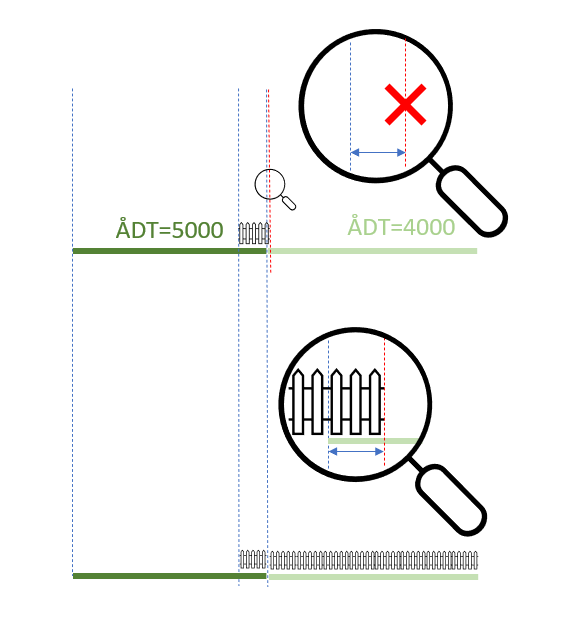
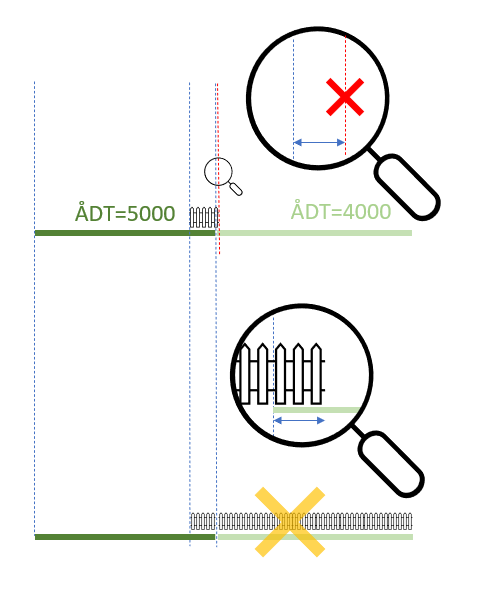
Håndtering av degenererte data

Changed region(s): [[0.0613, 0.0302, 0.9202, 0.9347], [0.0613, 0.8744, 0.1534, 0.9045]]

diff --git a/segmentering.py b/segmentering.py
@@ -225,9 +225,20 @@ def segmenter( dfVeg, dfListe, agg={}, minsteLengde=0.1, glemNvdbDetaljer=True  
 
         for ix in range( len( myPos)-1): 
             nyttSeg = {  } 
+
             # Behandler fagdata som matcher disse veglenkeposisjonene
+            # Inklusive støyfilter: Utstrekning til fagdata, målt i veglenkeposisjoner, må være > mikroPos 
+            mikroPos = minsteLengde * 1.1 / LFAC
             for myDf in dfListe: 
-                myDf2 = myDf[ (myDf[vl] == vegbit[vl]) & (myDf[fra] < myPos[ix+1]) & (myDf[til] > myPos[ix])]
+                # myDf2 = myDf[ (myDf[vl] == vegbit[vl]) & (myDf[fra] < myPos[ix+1]) & (myDf[til] > myPos[ix]) & ## Overlapp - OPPRINNELIG FORMULERING, sletta
+
+                # Ny formulering, overlapp + lengdefilter
+                myDf2 = myDf[ (myDf[vl] == vegbit[vl])                                           &   # Samme veglenkesekvens ID                                       OG
+                              (myDf[til]-myDf[fra] > mikroPos)                                   &   # Støyfilter: Fagdata må ha utstrekning > minstelengde           OG 
+                              ( ((myDf[fra] < myPos[ix+1]) & (myDf[til]-myPos[ix]   > mikroPos)) |   # Overlapp > minstelengde regnet fra helt i start av segment (ELLER
+                                ((myDf[til] > myPos[1])    & (myPos[ix+1]-myDf[fra] > mikroPos))     #                         regnet fra helt mot slutt av segment        )
+                                ) ]
+
                 if len( myDf2 ) > 0: 
                     for myCol in myDf2.columns: 
                         if myCol not in ignorerCol:

diff --git a/testdata_segmentering.py b/testdata_segmentering.py
@@ -51,7 +51,14 @@ fart = gpd.GeoDataFrame( [{ 'Fartsgrense' : 80, 'vref' : lagvref(0, GLF[f1]),  v
 
 # Objekt som er littegrann forskjøvet (nedenfor toleranse på 10cm ) ift fartsgrensene 
 dx = 0.01
-bru = gpd.GeoDataFrame( [ { 'Bru' : 1, 'vref' : lagvref( GLF[f1], GLF[100]), fra:GLF[f1]-myGeomLFAC*dx, til:GLF[100]+myGeomLFAC*dx, 'geometry' : LineString( [(myGeomCoords[f1][0]-dx, myGeomY, myGeomZ ), (myGeomCoords[100][0]+dx, myGeomY, myGeomZ )]), vid : 1000  }  ]  )
+bru = gpd.GeoDataFrame( [ { 'Bru' : 1, 'vref' : lagvref( GLF[f1], GLF[100]), fra:GLF[f1]-myGeomLFAC*dx, til:GLF[100]+myGeomLFAC*dx, 
+                        'geometry' : LineString( [(myGeomCoords[f1][0]-dx, myGeomY, myGeomZ ), (myGeomCoords[100][0]+dx, myGeomY, myGeomZ )]), vid : 1000  }  ]  )
+
+
+# Latterlig kort objekt < toleranse på 10cm, midt inne på fartsgrense-strekning
+stikk = gpd.GeoDataFrame( [ { 'Stikk' : 'Ja', 'vref' : lagvref( GLF[175], GLF[175]), fra:GLF[175]-myGeomLFAC*dx, til:GLF[175]+myGeomLFAC*dx, 
+        'geometry' : LineString( [(myGeomCoords[175][0]-dx, myGeomY, myGeomZ ), (myGeomCoords[175][0]+dx, myGeomY, myGeomZ )]), vid : 1000  }  ]  )
+
 
 # rekkverk, to biter som delvis overlapper hverandre
 r1a = 20

diff --git a/segmentering.md b/segmentering.md
@@ -40,11 +40,11 @@ Andre argument er en liste med de datasettet som skal segmenteres med hensyn på
 
 # Metodikk 
 
-Vi har dårlig erfaring med å klippe geometri basert på flyttalsoperasjoner basert på forholdet mellom veglenkeposisjoner og geometrisk lengde: Det blir for upresist. I stedet utnytter vi at selve klippeprosessen jo baserer seg på presist definerte start- og sluttpunkt for de datasettene som inngår: 
+Vi har dårlig erfaring med å klippe geometri basert på flyttalsoperasjoner basert på forholdet mellom veglenkeposisjoner og geometrisk lengde: Det blir for upresist. I stedet utnytter vi at inngangsdatene har  en geometri som starter presist på angitt `startposisjon` og slutter presist på angitt `sluttposisjon`: 
 
 ![Bildet viser klippeprosess for data med ulik utstrekning langs vegnettet](./pic/segmentering2.png)
 
-Hvert "kuttpunkt" i dette steget av segmenteringsprosessen har en presist definert geometri lik eksakt første (eller siste) punkt på den linja som starter (evt slutter) i dette punktet på vegnettet. Via operasjonen på shapely-objektet `geometry.coords[0]` eller `geometry.coords[-1]` får vi tilgang til dette koordinatpunktet. Alt vi trenger å gjøre er å lagre informasjonen som en dictionary (oppslagstabell) for hver eneste veglenkeposisjon i datagrunnlaget: 
+Hvert "kuttpunkt" i dette steget av segmenteringsprosessen har en presist definert geometri lik eksakt første (eller siste) punkt på den linja som starter (evt slutter) i dette punktet på vegnettet. Via operasjonen på shapely-objektet `geometry.coords[0]` (første punkt) eller `geometry.coords[-1]` (siste punkt) får vi tilgang til koordinatene for start- og sluttposisjon. Alt vi trenger å gjøre er å lagre informasjonen som en dictionary (oppslagstabell) for hver eneste veglenkeposisjon i datagrunnlaget: 
 
 ```python
 from shapely import Point 
@@ -57,6 +57,10 @@ for enBitAv in inngangsdata:
 Dette geometriske punktet inngår så i "klippe"-operasjonene som vi gjør på vegnettsgeometrien (shapely LineString, med metoden `shapelycut` fra [github/LtGlahn/overlapp.py](https://github.com/LtGlahn/nvdbapi-V3/blob/master/overlapp.md#user-content-hvorfor-har-vi-en-egen-funksjon-shapelycut-) )
 
 Samme logikk brukes for å holde styr på riktige meterverdier til vegsystemreferansen (gitt at kolonnen `vref` med vegsystemreferanser finnes i data for vegnettet): Vi lager en dictionary der vi kan gjøre oppslag på veglenkeposisjon (flyttall) og få riktig meterverdi. 
+
+# Aggregering når det finnes flere objekt på samme sted 
+
+Noen datasett (f.eks rekkverk) kan ha _intern overlapp_, det vil si at det kan finnes mer enn ett objekt på samme strekning. For eksempel et rekkverk på hver side av vegen. Vi trenger et regelverk for hvordan dette skal håndteres: _Skal vi telle antall rekkverk? Skal vi legge sammen ulike dataverdier, eller ta en form for gjennomsnitt?_ Dette kan du detaljregulere via parameteren `agg={ 'dictonary' : 'med aggregeringsregler' }`, beskrevet mer i detalj i dokumentasjonen for `segmenter` i fila `segmentering.py`. Standard oppførsel hvis ikke annet er angit er å bruke data fra det første objektet vi tilfeldigvis møter på (aggregeringsregel `first`). 
 
 # Bitene blir for korte
 
@@ -72,20 +76,29 @@ Vår håndtering av dette problemet består i at vi analyserer vår datastruktur
 >
 > Disse indeksene representerer to segmenter: `arbeidssegment1` (som vi vet er lengre enn minstelengde fordi vi konstruerte den slik!) og `arbeissegment2` (som vi gjør gradvis større inntil den oppnår minstelengde). Når vi kommer dit at `arbeissegment2 > minsteLengde` så lagrer vi kuttpunktene som definerer `arbeidssegment1`, setter `arbeidssegment1 = arbeidssegment2` og starter på et nytt `arbeidssegment2`. Gjenta inntil vi når enden av den vegnettsbiten vi itererer over.  Pluss litt logikk som sikrer at vegnettsbiten aldri blir kortere hvis det kronglete korte segmentet er helt i start eller slutt av vegnettsbiten. 
 
-Men denne håndteringen medfører også at en bitteliten "tiloversbit" kan "smitte over" på naboelementet. I figuren under viser vi hvordan et rekkverk har en utstrekning akkurat like 
-bortenfor der ÅDT-verdien skifter fra 5000 (mørkegrønn linje) til 4000 (lysegrønn) kjøretøy per døgn. Dermed blir informasjon om rekkverket påført hele den biten med ÅDT-verdi = 4000 (nederste høyre del av figuren). 
+Denne håndteringen gir også risiko for at en bitteliten "tiloversbit" kan "smitte over" på naboelementet. I figuren under viser vi hvordan et rekkverk har en utstrekning akkurat like 
+bortenfor der ÅDT-verdien skifter fra 5000 (mørkegrønn linje) til 4000 (lysegrønn) kjøretøy per døgn. I første implementasjon ble informasjon om rekkverket påført hele den biten med ÅDT-verdi = 4000 (nederste høyre del av figuren). 
+Dette er IKKE hva vi ønsker oss. Vi har justert logikken for overlapp, slik at dette fenomenet ikke skal inntreffe. 
 
-![Figuren viser hvordan vår filtrering av ultrakorte segmenter kan medføre at fagdata som så vidt er akkurat innafor et segment vil medføre at hele segmentet blir påført denne fagdata-verdien. I eksemplet bruker vi rekkverk som starter på et segment med ÅDT-verdi=5000 og akkurat så vidt går like forbi starten på nabosegmentet med ÅDT-verdi 4000](./pic/segmentering5.png)
+![Figuren viser hvordan vår filtrering av ultrakorte segmenter kan medføre at fagdata som så vidt er akkurat innafor et segment vil medføre at hele segmentet blir påført denne fagdata-verdien. I eksemplet bruker vi rekkverk som starter på et segment med ÅDT-verdi=5000 og akkurat så vidt går like forbi starten på nabosegmentet med ÅDT-verdi 4000, et ugunstig resultat.](./pic/segmentering5.png)
+
+# Degenererte data og vårt støyfilter
+
+I NVDB skal vi ikke ha linje-objekter med kortere utstrekning enn 1 m, men vi kan se for oss datafeil - evt at annen databearbeiding har gitt degenererte linjer med kortere utstrekning 
+enn vår `minstelenge` (evt at vi setter en litt lang minstelengde, f.eks 2m eller 10m). Hvis vi nå møter et kort objekt inne på en fin, lang strekning så vil 
+minstelengde-filteret vårt filtrere det bort - men vi får fremdeles ett (og kun ett) bruddpunkt på strekningen (blå stiplet linje; den røde stiplede linja er for nærme den blå, og blir ignorert). 
+
+> Heldigvis er ikke dette en situasjon som forekommer ofte i NVDB data.
 
 
-# Aggregering når det finnes flere objekt på samme sted 
+![Bildet viser et fiktivt kort objekt med utstrekning kortere enn vår minstelengde. Vi får et nytt bruddpunkt i segmenteringen, men data om det korte objektet blir ellers ikke med i sluttresultatet.](./pic/segmentering6.png)
 
-Noen datasett (f.eks rekkverk) kan ha _intern overlapp_, det vil si at det kan finnes mer enn ett objekt på samme strekning. For eksempel et rekkverk på hver side av vegen. Vi trenger et regelverk for hvordan dette skal håndteres: _Skal vi telle antall rekkverk? Skal vi legge sammen ulike dataverdier, eller ta en form for gjennomsnitt?_ Dette kan du detaljregulere via parameteren `agg={ 'dictonary' : 'med aggregeringsregler' }`, beskrevet mer i detalj i dokumentasjonen for `segmenter` i fila `segmentering.py`. Standard oppførsel hvis ikke annet er angit er å bruke data fra det første objektet vi tilfeldigvis møter på (aggregeringsregel `first`). 
+Ideelt sett skulle vi ignorert det nye bruddpunktet også, men det klarer vi ikke i nåværende implementasjon. Sammenslåing av like segmenter kan evt håndteres utafor segmenteringsrutina, i dertil egnede verktøy - eller ved en egen homogenisering / generaliseringsrutine. 
 
 # Få renere datasett: Homogenisering og generalisering 
 
 Ofte er det ønskelig å etterbehandle resultatene, for eksempel ved å slå sammen korte biter som ligner på hverandre til litt færre og 
-lengre biter. Regelverket for hva som `ligner på hverandre` kan fort bli komplekst. Vi har ikke laget noen slik rutine (ennå). 
+lengre biter. Regelverket for hva som `ligner på hverandre` kan fort bli komplekst. Vi har ikke laget noen slik rutine (ennå). Verktøyet FME med [LineCombiner](http://docs.safe.com/fme/html/FME_Desktop_Documentation/FME_Transformers/Transformers/linecombiner.htm) er et godt alternativ. 
 
 # Snudd stedfesting i NVDB
 
@@ -103,4 +116,6 @@ Segmentering av ERFK-vegnettet på bruksklasse-objektene _904 BK Normaltransport
 
 Denne implementasjonen av segmentering burde egne seg godt for parallellisering. Dette vil vi utforske nærmere. Parallellisering kan gjøres ved å dele opp datasettene (f.eks på kommuner?), eller ved den ytre for-løkken som itererer over radene i vegnettet. 
 
-Det er muligens også en del å hente på å utnytte at mye av dataene allerede er _ferdig segmentert_. Spesielt for data med (nesten) heldekkende utstrekning vil mye av datagrunnlaget ha _perfekt overlapp_. Grunnen er at vårt datagrunnlag er (i all hovedsak) såkalt _segmentert vegnett_ og fagdata i all hovedsak jo nettopp er segmentert på dette vegnettet (dette er standardinnstillingene til `nvdbapiv3` - biblioteket for søk etter vegnett `nvdbappiv3.nvdbVegnett()` og metoden `nvdbapiv3.nvdbFagdata().to_records()`. Man kunne derfor tenke seg en rutine som fant _perfekt overlapp_ via SQL eller dataframe - spørring (slik vi gjør i [overlapp](https://github.com/LtGlahn/nvdbapi-V3/blob/master/overlapp.md)). Den relativt trege prosessen med segmentering kan så gjøres på de radene der vi ikke har perfekt overlapp. 
+> Det er muligens også en del å hente på å utnytte at mye av dataene allerede er _ferdig segmentert - med eksakt samme segmentering_. Spesielt for data med (nesten) heldekkende utstrekning vil mye av datagrunnlaget ha _perfekt overlapp_. Grunnen er at det i mange sammenhenger er naturlig å kombinere såkalt _segmentert vegnett_ med ferdig segmenterte fagdata. Det vil si at alle NVDB-objekter kommer ferdig segmentert på såkalt _segmentert vegnett_. Da er det jo overflødig at vi segmenterer én gang til - hvis vi bare klarer skille bitene med _perfekt overlapp_ fra resten. 
+>
+> Uthenting av segmentert vegnett og segmenterte  fagdata er standardinnstillingene til `nvdbapiv3` - biblioteket for søk etter vegnett `nvdbappiv3.nvdbVegnett()` og metoden `nvdbapiv3.nvdbFagdata().to_records()`. Man kunne derfor tenke seg en rutine som fant _perfekt overlapp_ via SQL eller dataframe - spørring (slik vi gjør med [overlapp-funksjonen](https://github.com/LtGlahn/nvdbapi-V3/blob/master/overlapp.md)). Den relativt trege prosessen med segmentering kan så gjøres på de radene der vi ikke har perfekt overlapp. 
